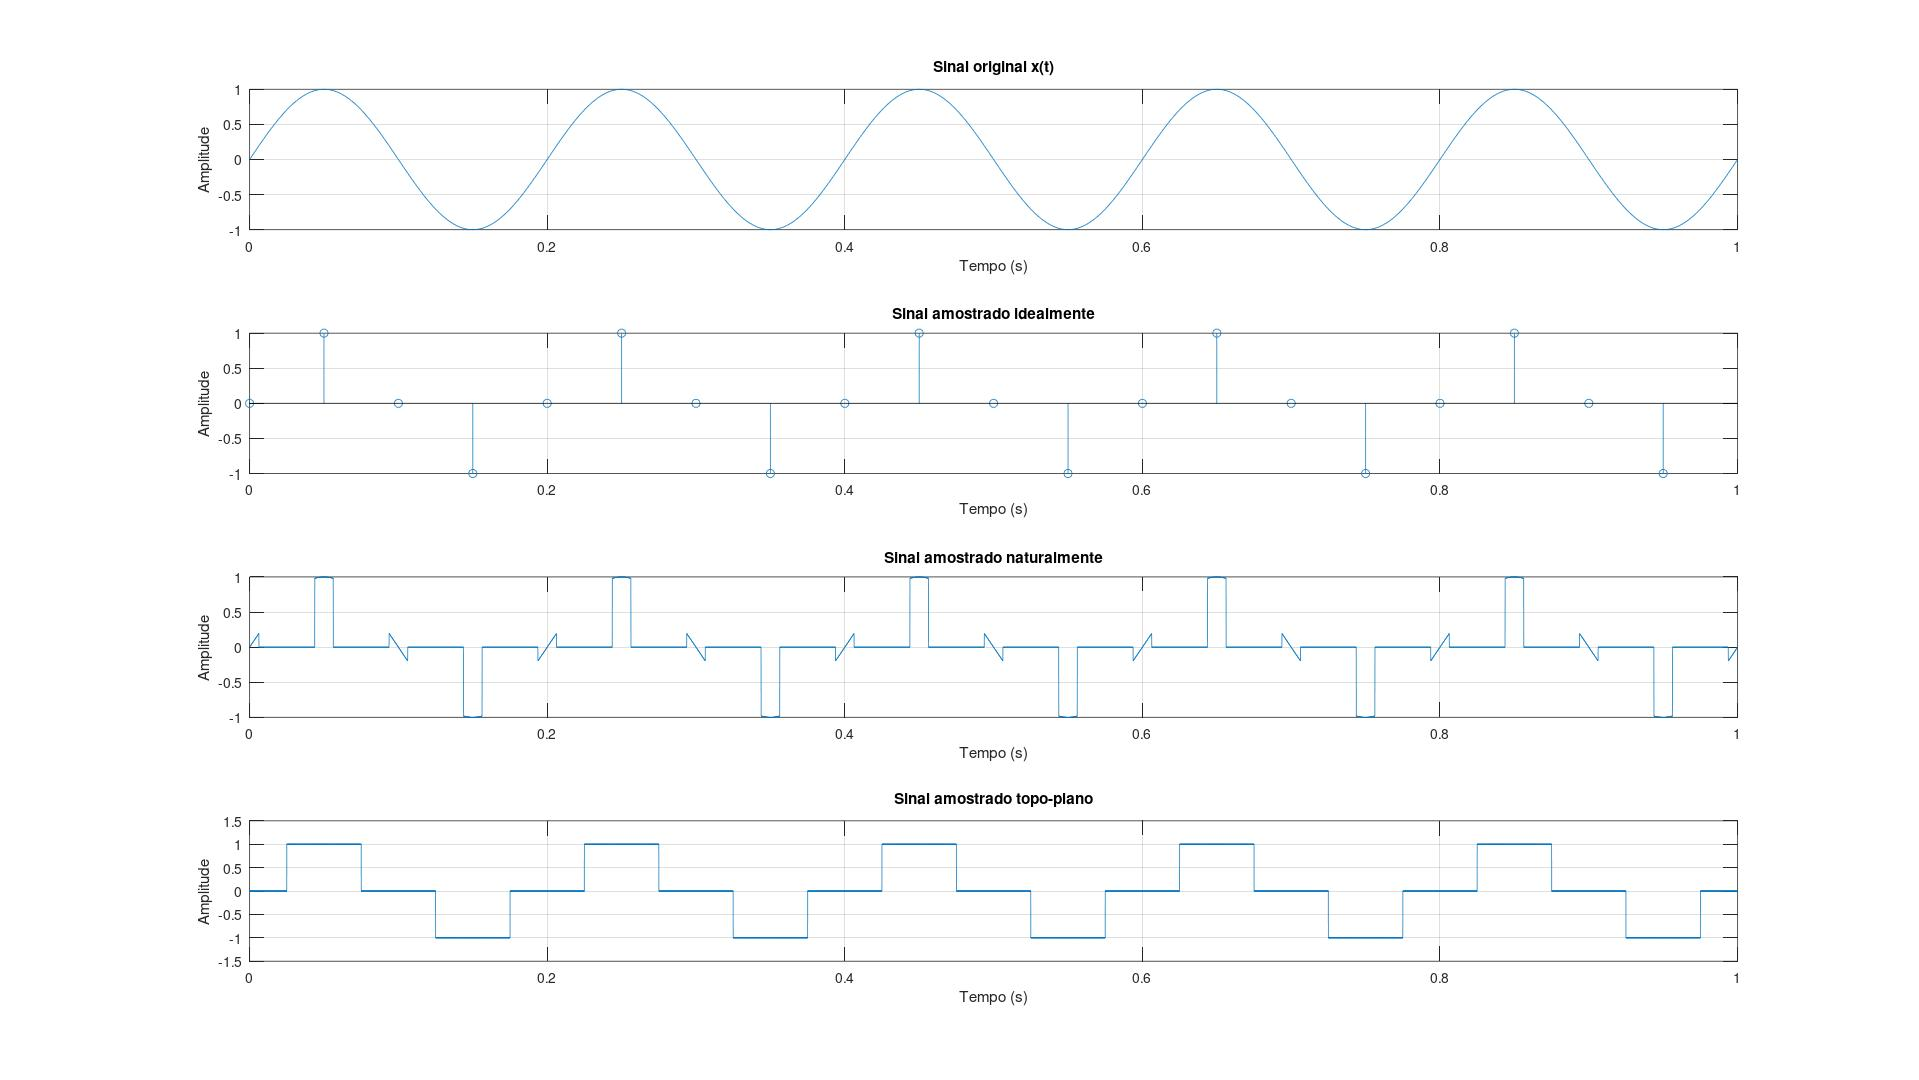
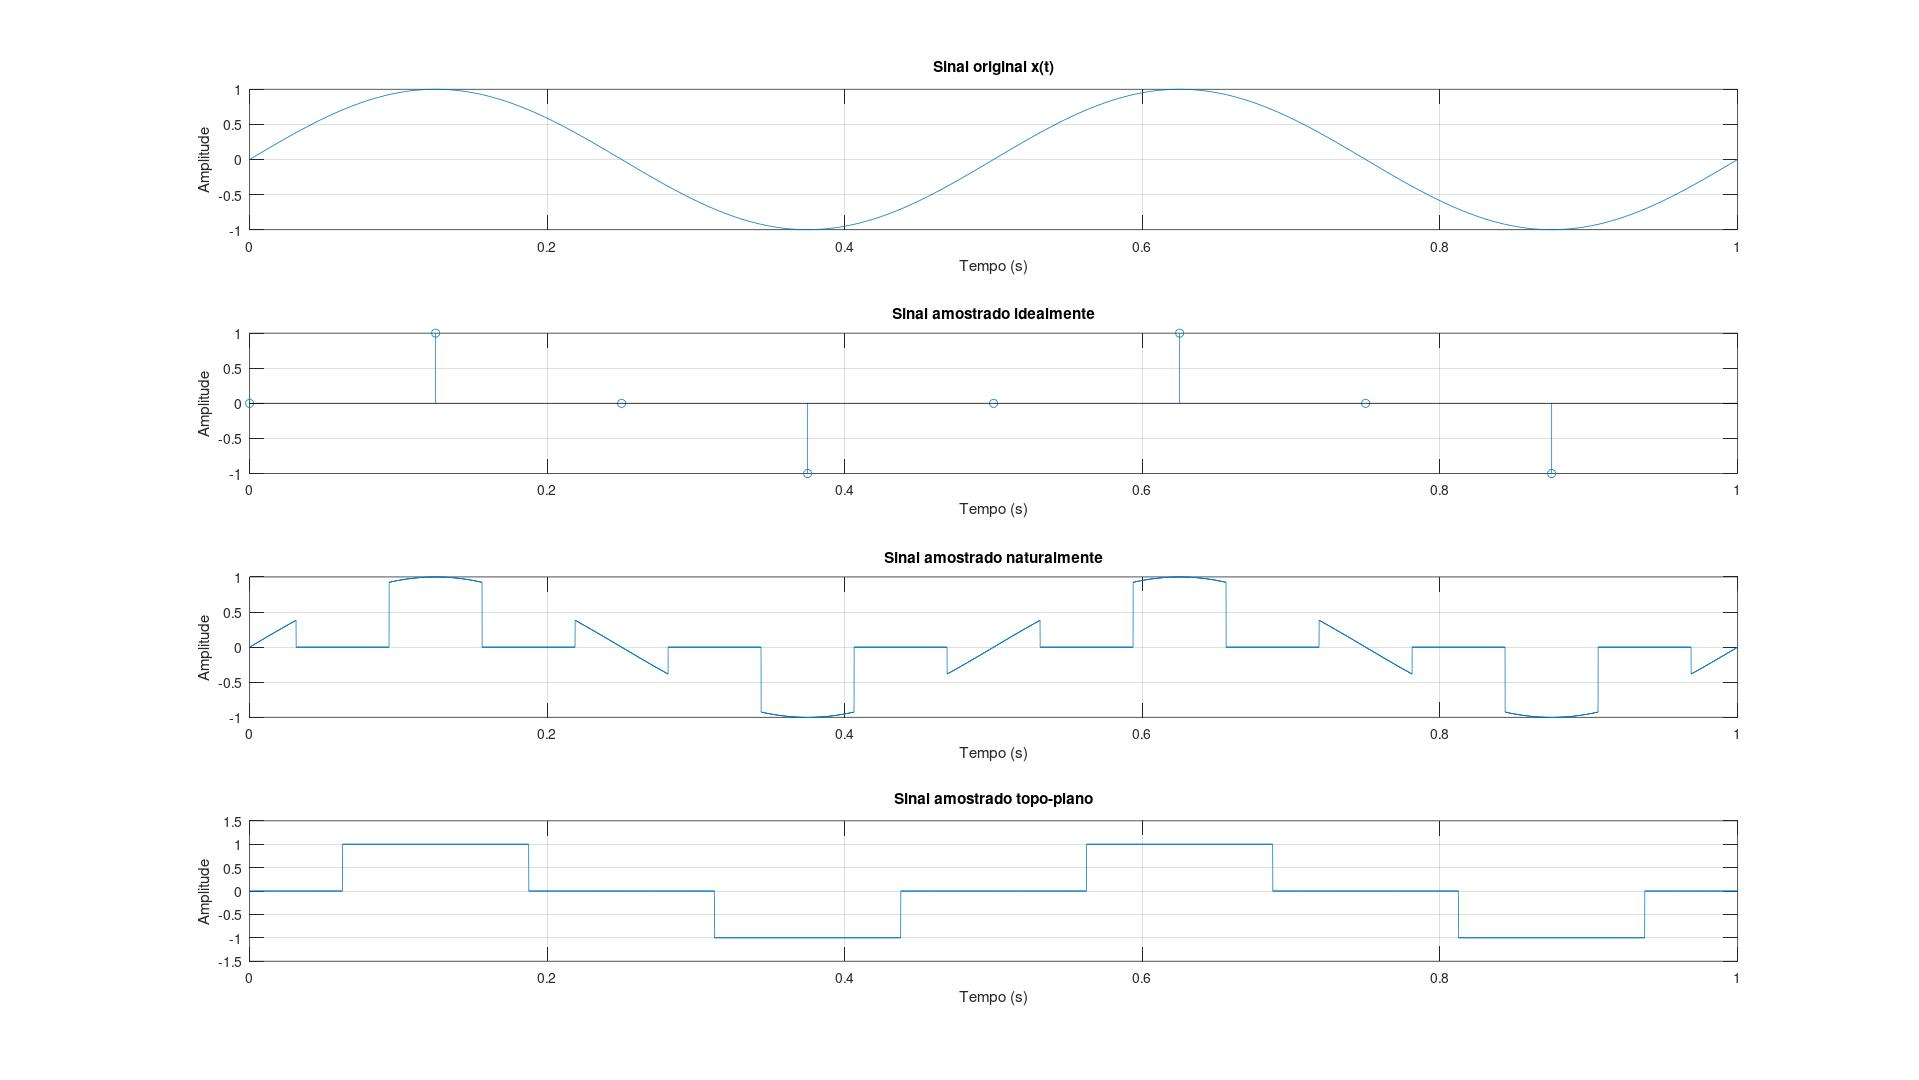
refactor: ajuste do diretório e funções

diff --git a/main.m b/main.m
@@ -2,11 +2,12 @@ pkg load signal
 
 clear all; clc;
 
-f = 5;
+f = 2;
 phi = 0;
-Fs = 20;
+Fs = 8;
 
 x = @(t) sin(2*pi*f*t + phi);
+%x = @(t) sawtooth(2*pi*f*t, 1/2);
 
 Ti = 0;
 Ts = 1/Fs;
@@ -20,7 +21,7 @@ xc = x(t);
 [xsi, tsi] = amostragem_ideal(x, Fs, Ti, Tf);
 
 % Amostragem natural
-wn = Ts/4;
+wn = Ts/2;
 [xsn, tsn] = amostragem_natural(x, Fs, wn, Ti, Tf);
 
 % Amostragem flat-top
